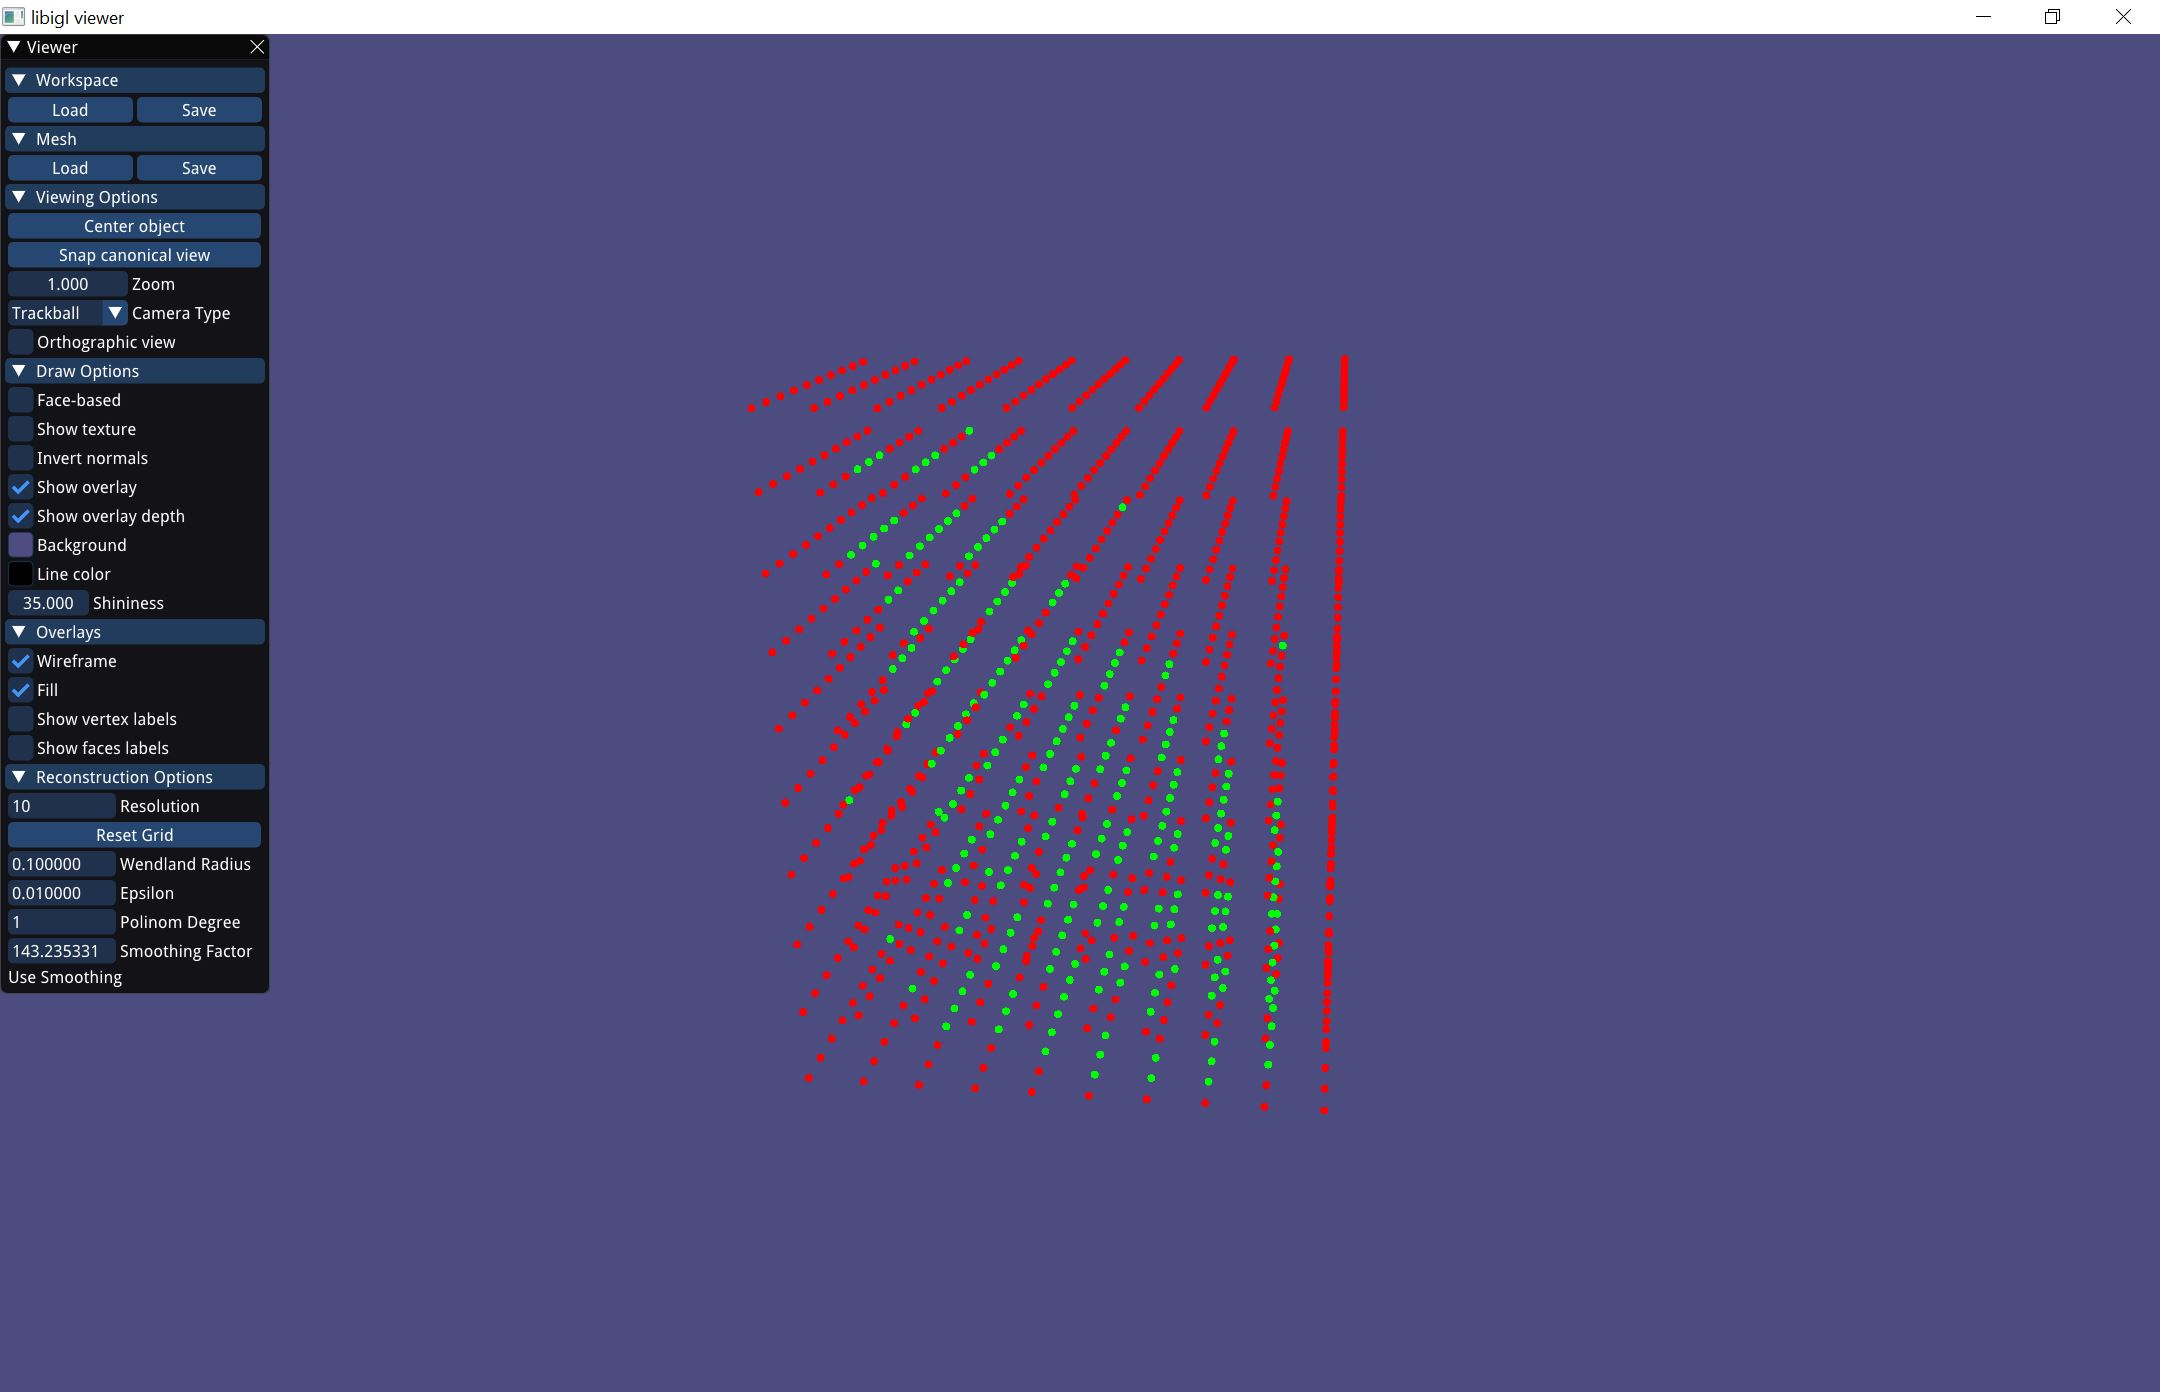
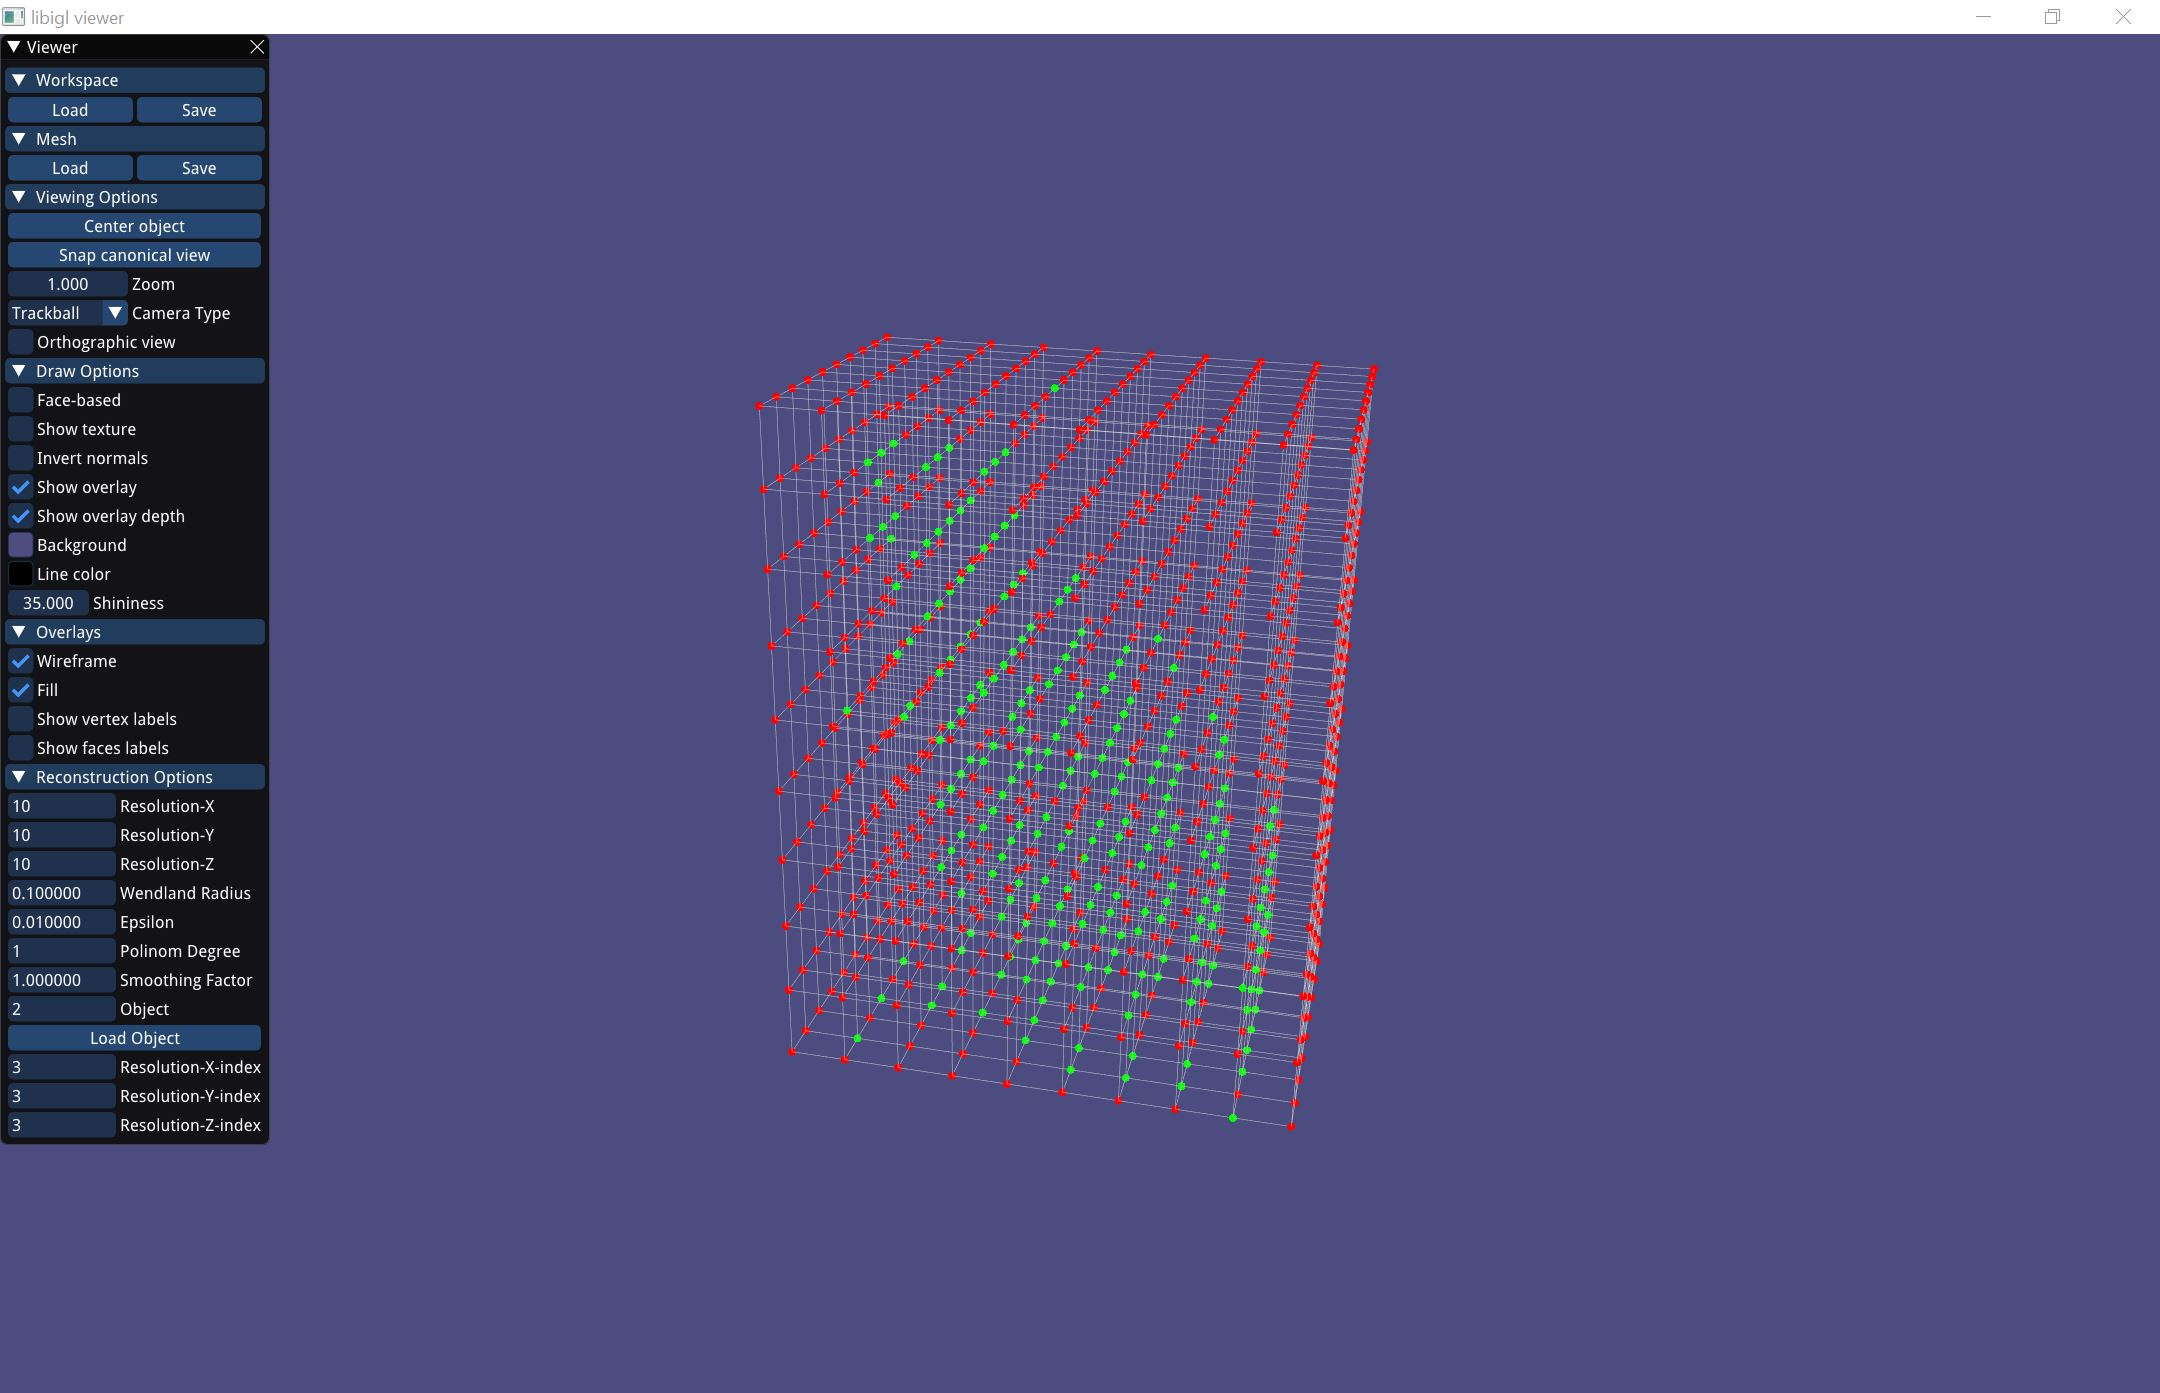
Update

diff --git a/assignment2/src/main.cpp b/assignment2/src/main.cpp
@@ -73,12 +73,62 @@ int resolutionXRaw = 10;
 int resolutionYRaw = 10;
 int resolutionZRaw = 10;
 
+// rotation angles
+
+
 // Functions
+void rotate();
 double weightFunction(double r);
 void createGrid();
 void evaluateImplicitFunc();
 void getLines();
 bool callback_key_down(Viewer& viewer, unsigned char key, int modifiers);
+
+double theta = 0;
+double phi = 0;
+double zeta = 0;
+
+#define PI 3.14
+
+// Rotates Vertices and Normals
+void rotate() {
+
+    double cTheta = cos(theta*PI / 180);
+    double sTheta = sin(theta*PI / 180);
+
+    Eigen::Matrix3d Rx;
+
+    Rx  <<  1, 0, 0,
+            0, cTheta, -sTheta,
+            0, sTheta, cTheta;
+
+    double cPhi = cos(phi*PI / 180);
+    double sPhi = sin(phi*PI / 180);
+
+    Eigen::Matrix3d Ry;
+
+    Ry  <<  cPhi, 0, sPhi,
+            0, 1, 0,
+            -sPhi, 0, cPhi;
+
+    double cZeta = cos(zeta*PI / 180);
+    double sZeta = sin(zeta*PI / 180);
+
+    Eigen::Matrix3d Rz;
+
+    Rz  <<  cZeta, -sZeta, 0,
+            sZeta, cZeta, 0,
+            0, 0, 1;
+
+    for (int i = 0; i < P.rows(); i++) {
+        P.row(i) =  P.row(i) * Rx * Ry * Rz;
+    }
+
+    for (int i = 0; i < N.rows(); i++) {
+        N.row(i) = N.row(i) * Rx * Ry * Rz;
+    }
+
+}
 
 // Wendland weight function
 double weightFunction(double r) {
@@ -449,7 +499,7 @@ bool callback_key_down(Viewer &viewer, unsigned char key, int modifiers) {
         evaluateImplicitFunc();
 
         // get grid lines
-//        getLines();
+        getLines();
 
         // Code for coloring and displaying the grid points and lines
         // Assumes that grid_values and grid_points have been correctly assigned.
@@ -471,7 +521,7 @@ bool callback_key_down(Viewer &viewer, unsigned char key, int modifiers) {
         viewer.data().point_size = 8;
         viewer.data().add_points(grid_points, grid_colors);
 
-//       viewer.data().add_edges(grid_lines.block(0, 0, grid_lines.rows(), 3), grid_lines.block(0, 3, grid_lines.rows(), 3), Eigen::RowVector3d(0.8, 0.8, 0.8));
+       viewer.data().add_edges(grid_lines.block(0, 0, grid_lines.rows(), 3), grid_lines.block(0, 3, grid_lines.rows(), 3), Eigen::RowVector3d(0.8, 0.8, 0.8));
 
         /*** end: sphere example ***/
     }
@@ -552,12 +602,18 @@ int main(int argc, char *argv[]) {
                 break;
             }
 
+            rotate();
+
             callback_key_down(viewer, '1', 0);
         }
 
         ImGui::InputInt("Resolution-X-index", &resolutionXRaw, 0, 0);
         ImGui::InputInt("Resolution-Y-index", &resolutionYRaw, 0, 0);
         ImGui::InputInt("Resolution-Z-index", &resolutionZRaw, 0, 0);
+
+        ImGui::InputDouble("Theta", &theta, 0, 0);
+        ImGui::InputDouble("Phi", &phi, 0, 0);
+        ImGui::InputDouble("Zeta", &zeta, 0, 0);
 
       }
 

diff --git a/assignment2/README.md b/assignment2/README.md
@@ -27,10 +27,6 @@ Edit this 'README.md' file to report all your results. There is no need to write
 ![alt text](Images/Q_3/Sphere_Res_15_WR_0.1_Epsilon_0.01_PD_1_SF_1.JPG "Title")
 
 #### Cat:<br/>
-##### Parameters: Res_15_WR_0.1_Epsilon_0.01_PD_1_SF_Unset <br/>
-![alt text](Images/Q_3/Cat_Res_15_WR_0.1_Epsilon_0.01_PD_1_SF_Unset.JPG "Title")
-##### Parameters: Res_15_WR_0.15_Epsilon_0.01_PD_1_SF_Unset <br/>
-![alt text](Images/Q_3/Cat_Res_15_WR_0.15_Epsilon_0.01_PD_1_SF_Unset.JPG "Title")
 ##### Parameters: Res_15_WR_0.15_Epsilon_0.1_PD_1_SF_150 <br/>
 ![alt text](Images/Q_3/Cat_Res_15_WR_0.15_Epsilon_0.1_PD_1_SF_150.JPG "Title")
 
